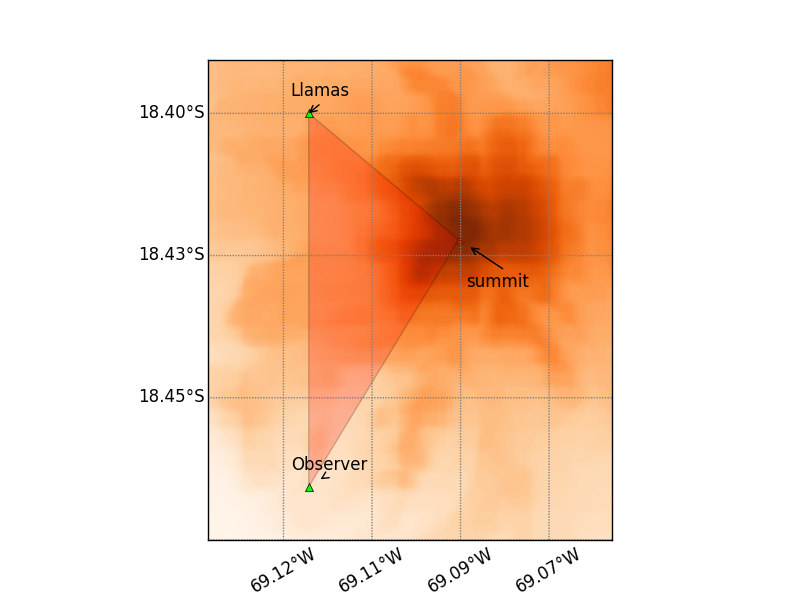
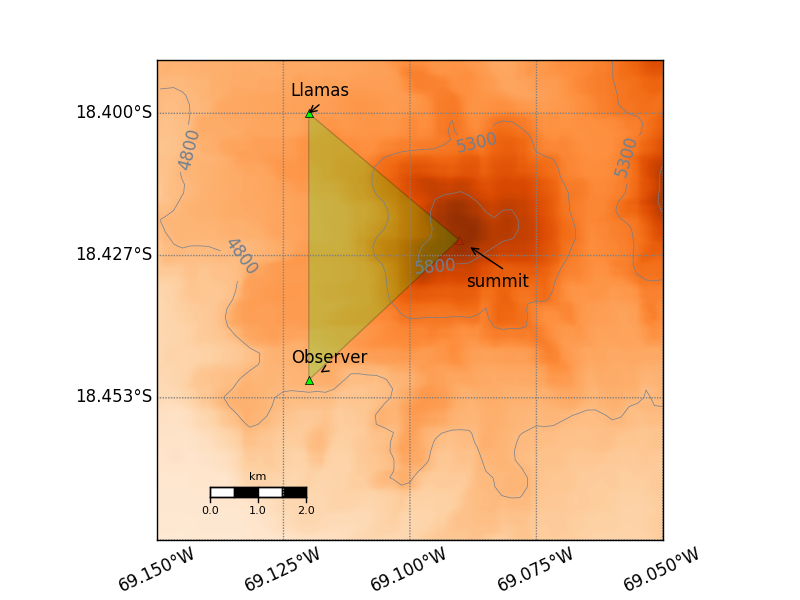
Improved topo ticks and mapscale in Map object

diff --git a/geonum/mapping.py b/geonum/mapping.py
@@ -7,7 +7,7 @@ import matplotlib.cm as colormaps
 from random import randrange
 from mpl_toolkits.mplot3d.axes3d import Axes3D
 import mpl_toolkits.mplot3d.art3d as a3d
-from matplotlib.pyplot import figure
+from matplotlib.pyplot import figure, draw
 
 try:
     from cv2 import pyrDown
@@ -18,7 +18,7 @@ except:
 #from geonum.base import GeoPoint, GeoVector3D
 from .topodata import TopoAccessError
 from .topodata import TopoData, TopoDataAccess
-from .helpers import haversine_formula, shifted_color_map
+from .helpers import haversine_formula, shifted_color_map, exponent
 
 class Map(Basemap):
     """Basemap object for drawing and plotting (on) a geographic map
@@ -220,7 +220,82 @@ class Map(Basemap):
             return 1
         return 0
     
+    def set_ticks_topo_colorbar(self, start, stop, step):
+        """Update ticks of topo colorbar"""
+        cb = self.colorbars["topo"]
+        ticks = arange(start, stop, step)
+        cb.set_ticks(ticks)
+        draw()
+        
     def draw_topo(self, insert_colorbar=False, include_seabed=True,
+                    max_grid_points=500, cmap_div=colormaps.coolwarm,
+                    cmap_seq=colormaps.Oranges, alpha=0.5, ax=None):
+        """Draw topography into map
+        
+        :param bool insert_colorbar: draws a colorbar for altitude
+            range (default: False)
+        :param bool include_seabed: include seabed topography 
+            (default: True)
+        :param int max_grid_points: resolution of displayed topo data 
+            points (makes it faster in interactive mode, default: 500)
+        :param str cmap_div: name of a diverging colormap (this one is 
+            used if :arg:`include_seabed` is True, and the cmap is shifted 
+            such , that white colors correspond to sea level altitude, 
+            default: "coolwarm")
+        :param str cmap_seq: name of a sequential colormap (this one is 
+            used if :arg:`include_seabed` is False, default: "Oranges")
+        :param float alpha: Alpha value (transparency) of plotted 
+            topography
+        :param ax: matplotlib axes object
+        """
+        try:  
+            if ax is None:
+                ax = self.ax
+            if ax is None:
+                fig, ax = subplots(1, 1, figsize=(16,10))
+                self.ax = ax
+    
+            x, y, z, z_min, z_max, z_order =\
+                self._prep_topo_data(grid_points=max_grid_points)
+                
+            
+            delz = z_max - z_min #in m
+            exp = exponent(delz) - 1
+            start_alt = round((z_min - delz*0.1)*10**(-exp))*10**exp
+            stop_alt = round((z_max + delz*0.1)*10**(-exp))*10**exp
+            if z_min > 0:
+                include_seabed = 1
+                
+            if not include_seabed:
+                start_alt = 0
+            
+            z_step = (stop_alt - start_alt) / 1000. 
+            levels_filled = arange(start_alt, stop_alt, z_step)
+            
+            if levels_filled[0] < 0:          
+                shifted_cmap = shifted_color_map(z_min, z_max, cmap_div)
+                
+                cs2 = ax.contourf(x, y, z, levels_filled, cmap=shifted_cmap,
+                                  extend="both", alpha=alpha)
+                                  
+            elif levels_filled[0] >= 0:        
+                cs2 = ax.contourf(x, y, z, levels_filled, cmap=cmap_seq,
+                                  alpha=1.0, extend="min")
+                self.contour_filled = cs2
+                    
+            if insert_colorbar:              
+                self.insert_colorbar("topo", cs2, label="Altitude [m]")
+                exp = exponent(delz)
+                step = round(delz*10**(-exp))*10**(exp-1)
+                self.set_ticks_topo_colorbar(start_alt, stop_alt, step)
+        except Exception as e:
+            raise
+            msg=("Could not draw topography in high res, using default "
+                 "etopo() instead...")
+            print msg + repr(e)
+            self.etopo()
+            
+    def draw_topo_old(self, insert_colorbar=False, include_seabed=True,
                     max_grid_points=500, cmap_div=colormaps.coolwarm,
                     cmap_seq=colormaps.Oranges, alpha=0.5, ax=None):
         """Draw topography into map
@@ -253,6 +328,7 @@ class Map(Basemap):
                 
             if z_min > 0:
                 include_seabed = 1
+                
             z_step = (z_max - z_min) / 1000. 
             
             if include_seabed:
@@ -265,7 +341,8 @@ class Map(Basemap):
                 cs2 = ax.contourf(x, y, z, levels_filled, cmap=shifted_cmap,
                                   extend="both", alpha=alpha)
                                   
-            elif levels_filled[0] >= 0:                
+            elif levels_filled[0] >= 0:        
+                print "HEEEEEEEEEEEEEEEEEEEEEEEEEEEEEEEEERE"
                 cs2 = ax.contourf(x, y, z, levels_filled, cmap=cmap_seq,
                                   alpha=1.0, extend="min")
                 self.contour_filled = cs2
@@ -343,11 +420,13 @@ class Map(Basemap):
         :param kwargs: key word arguments for :func:`drawmapscale` (missing
             ones will be set automatically)
         """
-        l = self._len_diag()      
+        l = self._len_diag()  
+        exp = exponent(l)
+        l = round(l * 10**(-exp))*10**(exp)/5.0
         lat_center, lon_center = self.get_map_center()
         str_format = '%d'
         if not "length" in kwargs:
-            kwargs["length"] = floor(l) / 5
+            kwargs["length"] = l
         if l < 40:
             str_format = '%.1f'
         if not "fontsize" in kwargs:
@@ -389,8 +468,8 @@ class Map(Basemap):
             pot_lon = floor(log10(self.delta_lon))
             lon_tick = floor(self.delta_lon / 10**pot_lon) * 10**pot_lon / 4
         if lat_tick is None:
-            potLat = floor(log10(self.delta_lat))
-            lat_tick = floor(self.delta_lat / 10**potLat) * 10**potLat / 3
+            pot_lat = floor(log10(self.delta_lat))
+            lat_tick = floor(self.delta_lat / 10**pot_lat) * 10**pot_lat / 3
             
         lon_tick_array = arange(lon_tick * int((self.lon_ll - self.delta_lon 
                                 * 0.3) / lon_tick), lon_tick * int((self.lon_tr 
@@ -421,7 +500,7 @@ class Map(Basemap):
         if not "color" in kwargs:
             kwargs["color"] = "gray"
         if not "fmt" in kwargs:
-            digs = '%d' %(3 - int(floor(log10(self._len_diag()))))
+            digs = '%d' %(4 - int(floor(log10(self._len_diag()))))
             kwargs["fmt"] = "%." + digs + "f"
         lon_tick_array, lat_tick_array = self._prep_coord_ticks(lon_tick,
                                                                 lat_tick)
@@ -429,7 +508,7 @@ class Map(Basemap):
                                        **kwargs)
         for m in meridians:
             try:
-                meridians[m][1][0].set_rotation(30)
+                meridians[m][1][0].set_rotation(25)
             except:
                 pass
         self.meridians = meridians
@@ -454,10 +533,10 @@ class Map(Basemap):
             ax = self.ax
         if not "fontsize" in kwargs:
             kwargs["fontsize"] = 10
-        ax.legend(loc="best", fancybox=True, framealpha=0.4, **kwargs)\
+        ax.legend(loc="best", fancybox=True, framealpha=0.7, **kwargs)\
             .draggable()
                                                                 
-    def draw_geo_point_2d(self, p, addName=False, ax=None, **kwargs):
+    def draw_geo_point_2d(self, p, add_name=False, ax=None, **kwargs):
         """Draw a GeoPoint into 2D basemap
         
         :param GeoPoint p: the actual point        
@@ -468,12 +547,13 @@ class Map(Basemap):
             ax = self.ax
         if not "marker" in kwargs:
             kwargs["marker"] = "^"
-        if not any([x in kwargs for x in ["c", "color"]]):
+        if not "c" in kwargs:
             kwargs["c"]="lime"
         x, y = self(p.longitude, p.latitude) #maps the geo coordinates to figure coordinates
+                
         handle = ax.plot(x, y, **kwargs) 
         self.points[p.name] = handle
-        if addName:
+        if add_name:
             self.write_point_name_2d(p)
         return handle
     

diff --git a/scripts/ex3_mapping_basics.py b/scripts/ex3_mapping_basics.py
@@ -16,12 +16,13 @@ save_path = join(getcwd(), "scripts_out")
 
 close("all")
 exceptions = []
+
 def create_map_and_load_topodata():
     """Create and return map object around Guallatiri volcano"""
     lat0 = -18.48
-    lon0 = -69.14
+    lon0 = -69.15
     lat1 = -18.39  
-    lon1 = -69.06
+    lon1 = -69.05
     
     lat_center = mean([lat0, lat1])
     lon_center = mean([lon0, lon1])
@@ -52,7 +53,7 @@ def add_points_and_plot_map(basemap):
     # create two geopoints, one for a tough guy aiming to save the world from 2 
     # threats, the other one one of the 2 threats, probably the worse one
     # (without altitude spec -> is retrieved automatically from topo data)
-    p1 = geonum.GeoPoint(-18.47, -69.12, name = "Observer")
+    p1 = geonum.GeoPoint(-18.45, -69.12, name = "Observer")
     p2 = geonum.GeoPoint(-18.40, -69.12, name = "Llamas")
     
     
@@ -62,10 +63,11 @@ def add_points_and_plot_map(basemap):
     p2.plot_3d(basemap, add_name = True, dz_text = 50)
     
     # You can include a polygon connecting different points
-    basemap.add_polygon_3d([summit, p2, p1])
+    basemap.add_polygon_3d([summit, p2, p1], color="lime")
     
     # just some little adjustment of the 3D viewing direction
     basemap.ax.view_init(20, 240)
+    
     
     # save the 3D figure
     print "Save path: %s (exists: %s)" %(save_path, exists(save_path))
@@ -80,16 +82,19 @@ def add_points_and_plot_map(basemap):
     
     # update the axes object in the map
     basemap.ax = ax
-    basemap.draw_topo() # draws 2D map
+    basemap.draw_topo() # draws topography into 2D map
+    basemap.draw_topo_contour()
+    
     basemap.draw_coordinates()
+    basemap.draw_mapscale_auto()
     p1.plot_2d(basemap, add_name = True)
     p2.plot_2d(basemap, add_name = True)
     
-    summit.plot_2d(basemap, add_name = True, dist_text = 1.0,alpha = 0.2,\
-                                                       angle_text = 170)
+    summit.plot_2d(basemap, add_name=True, dist_text=1.0, alpha=0.2,
+                   angle_text=170, c="y")
     
     # You can include a polygon connecting different points
-    basemap.add_polygon_2d([summit, p2, p1], fc = "r", alpha = 0.2)
+    basemap.add_polygon_2d([summit, p2, p1], fc = "lime", alpha = 0.2)
     try:
         basemap.ax.figure.savefig(join(save_path, "ex3_out_2_map2D.png"))
     except:

diff --git a/geonum/helpers.py b/geonum/helpers.py
@@ -3,10 +3,23 @@
 Helper methods for geonum library
 """
 
-from numpy import radians, cos, arcsin, sin, sqrt, array, linspace, hstack
+from numpy import radians, cos, arcsin, sin, sqrt, array, linspace, hstack,\
+    floor, log10, abs, int
 import matplotlib.cm as colormaps
 import matplotlib.colors as colors
+from matplotlib.pyplot import draw
 
+exponent = lambda num: int(floor(log10(abs(num))))
+
+def rotate_xtick_labels(ax, deg=30, ha="right"):
+    """Rotate xtick labels in matplotlib axes object"""
+    draw()
+    lbls = ax.get_xticklabels()
+    lbls = [lbl.get_text() for lbl in lbls]
+    ax.set_xticklabels(lbls, rotation = 30, ha = "right")
+    draw()
+    return ax
+    
 def haversine_formula(lon0, lat0, lon1, lat1, radius=6371.0):
     """Haversine formula
     
